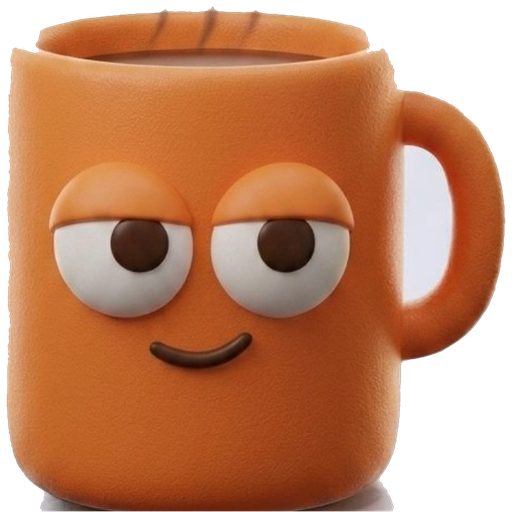
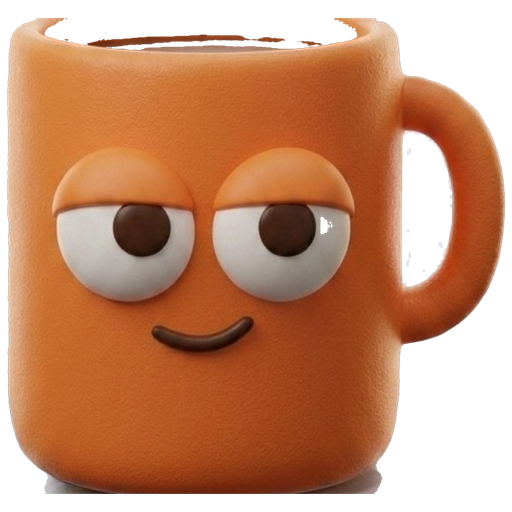
Cleaner Pan clay cutout: transparent handle hole, intact eyes
The bundled clay Pan had leftover light background inside the handle loop,
which showed as a bright patch on dark themes, and a slightly rough top
rim. Recut with a saturation based mask that fades the gray handle hole to
transparent with smooth anti aliased edges, while protecting the white
eyes (near white pixels are kept). Same asset path, so it swaps in over the
air with no code change. Stamp v3.11.

Claude-Session: https://claude.ai/code/session_01PhNstwY2RzsLQiDTApbhoo

diff --git a/mobile/app/(tabs)/more.js b/mobile/app/(tabs)/more.js
@@ -636,7 +636,7 @@ export default function More() {
               always tell at a glance whether the latest code has arrived. */}
           <View style={[styles.row, styles.rowDivider]}>
             <Text style={styles.rowLabel}>Update stamp</Text>
-            <Text style={styles.rowValue}>v3.10: Pan is now the 3D clay mug</Text>
+            <Text style={styles.rowValue}>v3.11: cleaner Pan cutout</Text>
           </View>
           {Platform.OS !== 'web' ? (
             <>